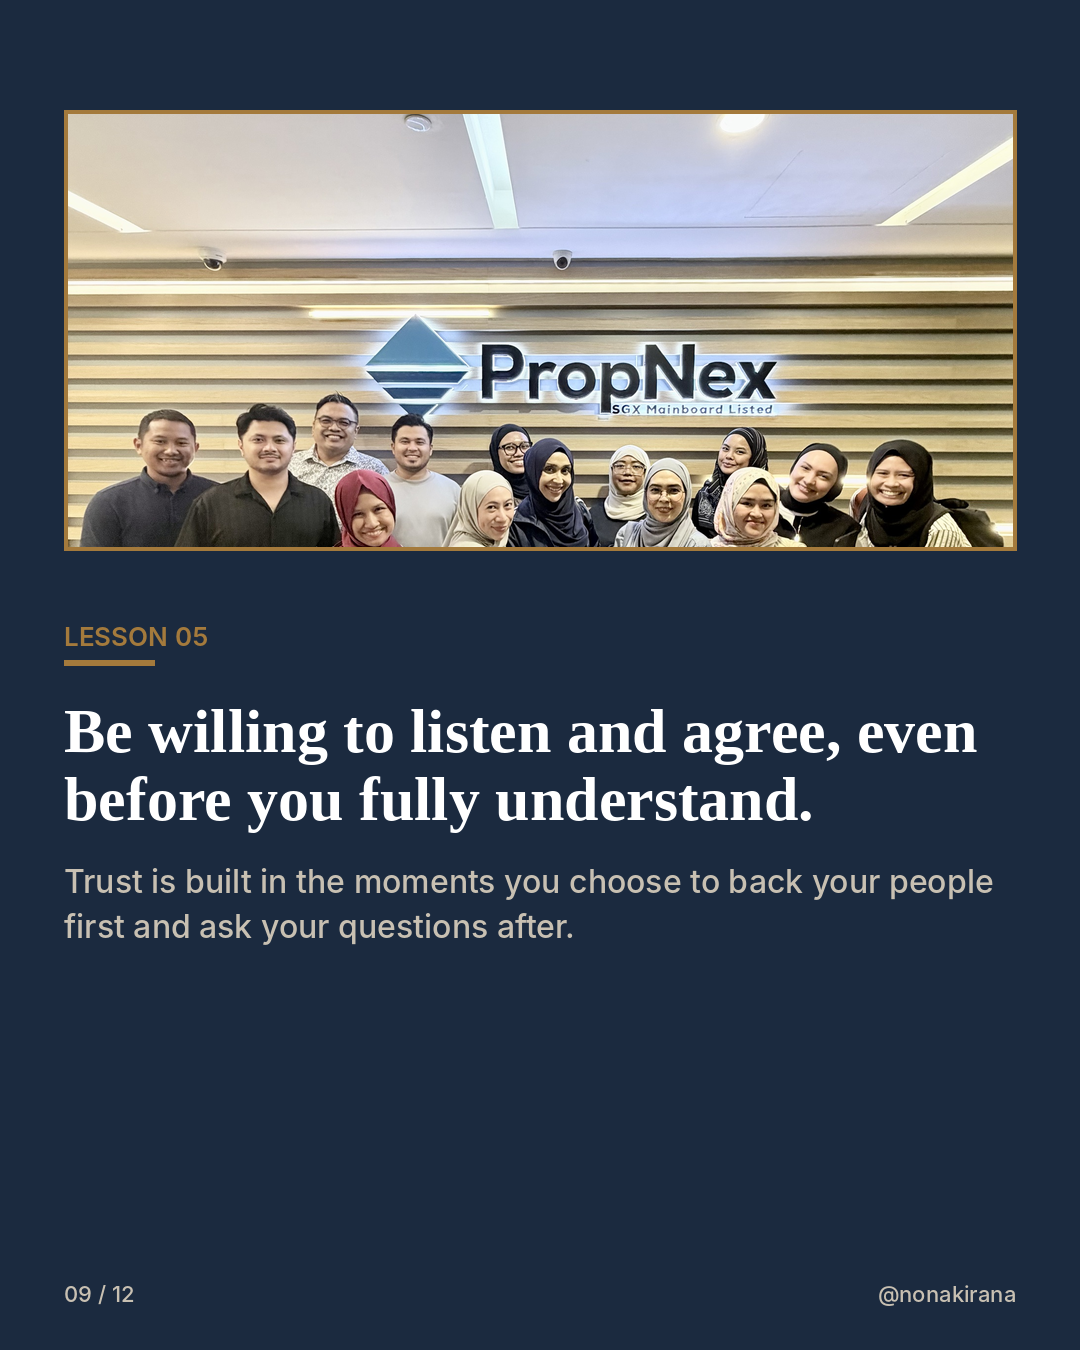
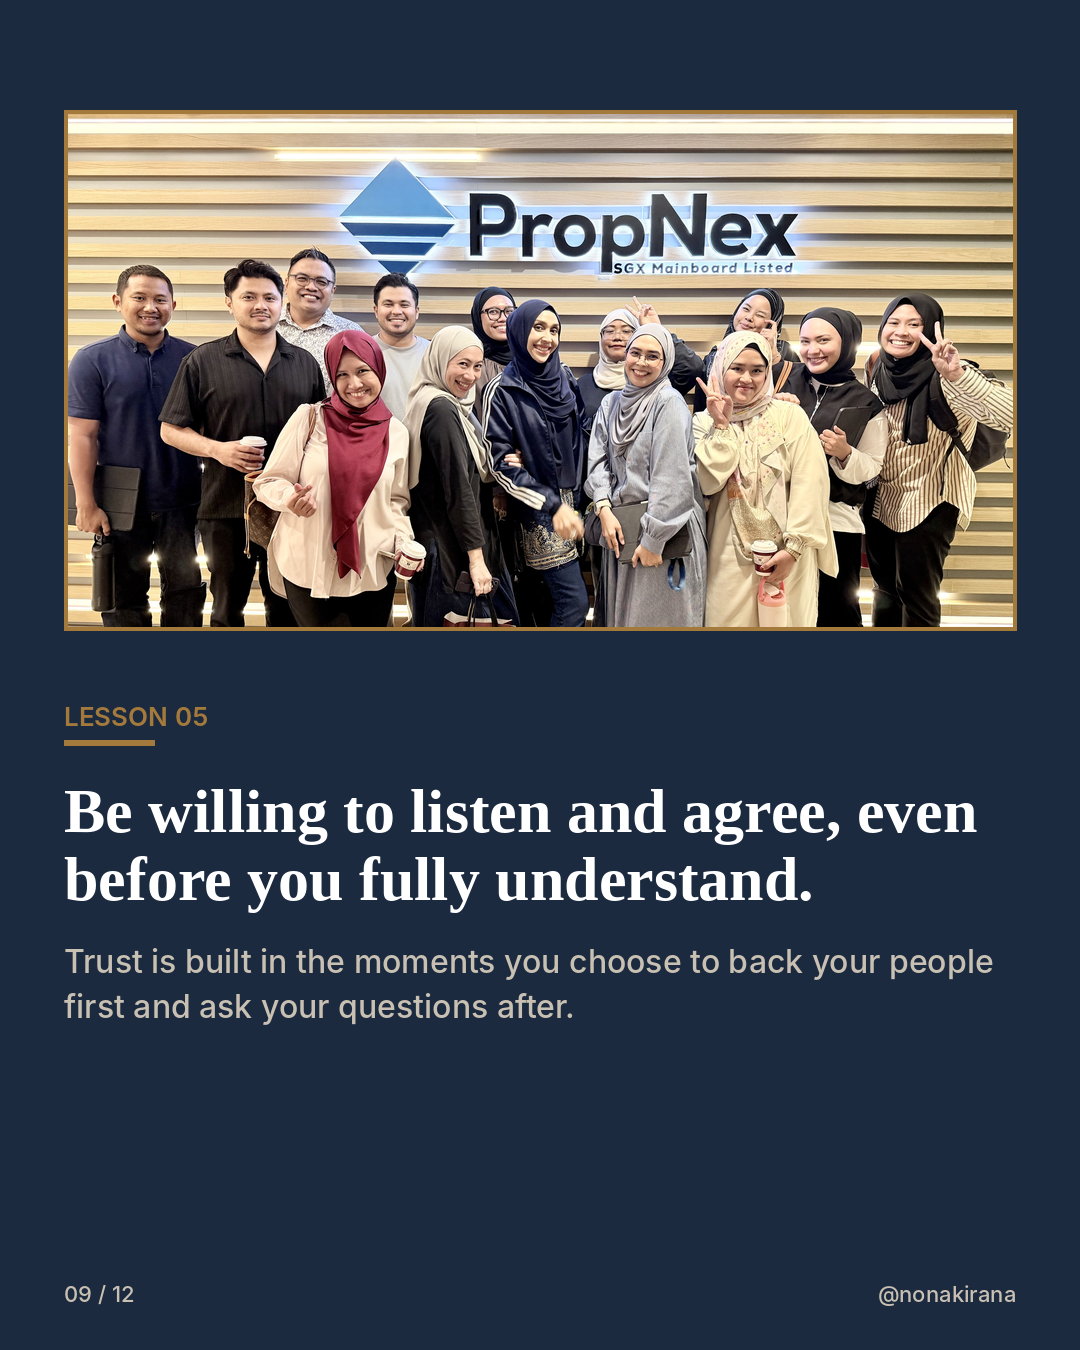
Centre the PropNex lobby photo on lesson 5 slide
Claude-Session: https://claude.ai/code/session_016kRuLdfEYNqBubZ7ARvdxi

diff --git a/recruitment-carousel/make_carousel.py b/recruitment-carousel/make_carousel.py
@@ -223,7 +223,7 @@ text_slide(8, "Lesson 04", "Make the decision that won't please everyone.",
 
 text_slide(9, "Lesson 05", "Be willing to listen and agree, even before you fully understand.",
     "Trust is built in the moments you choose to back your people first and ask your questions after.",
-    photo_strip="propnex-lobby.jpg", focus=(0.5, 0.3), hl_size=62)
+    photo_strip="propnex-lobby.jpg", strip_h=520, focus=(0.5, 0.25), hl_size=62)
 
 text_slide(10, "Lesson 06", "Lead by example, and with integrity.",
     "Your team will never do what you say. They will do what you do. Especially when you think nobody is watching.",
